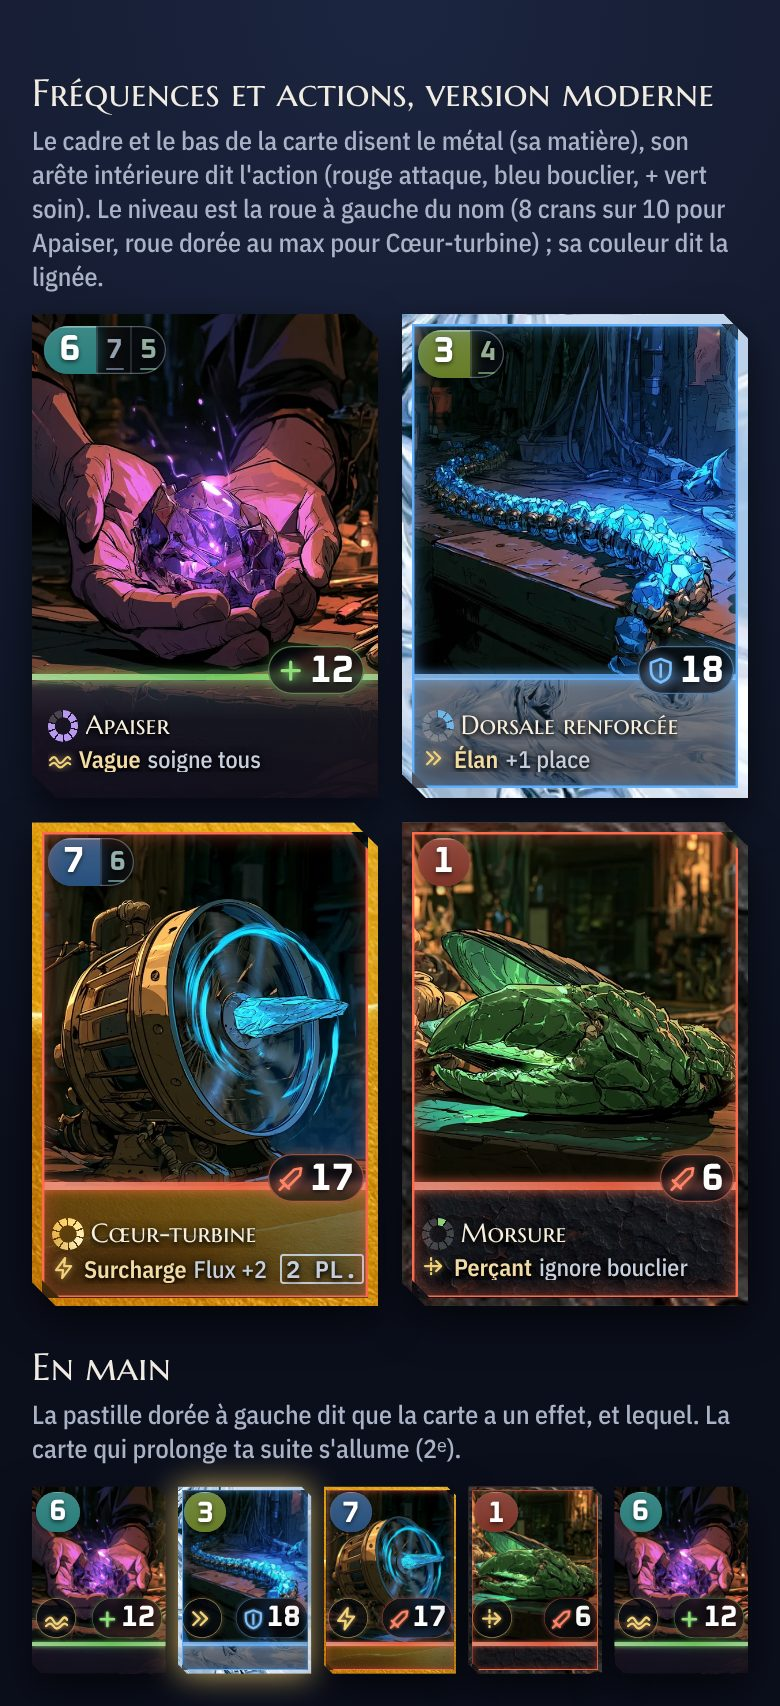
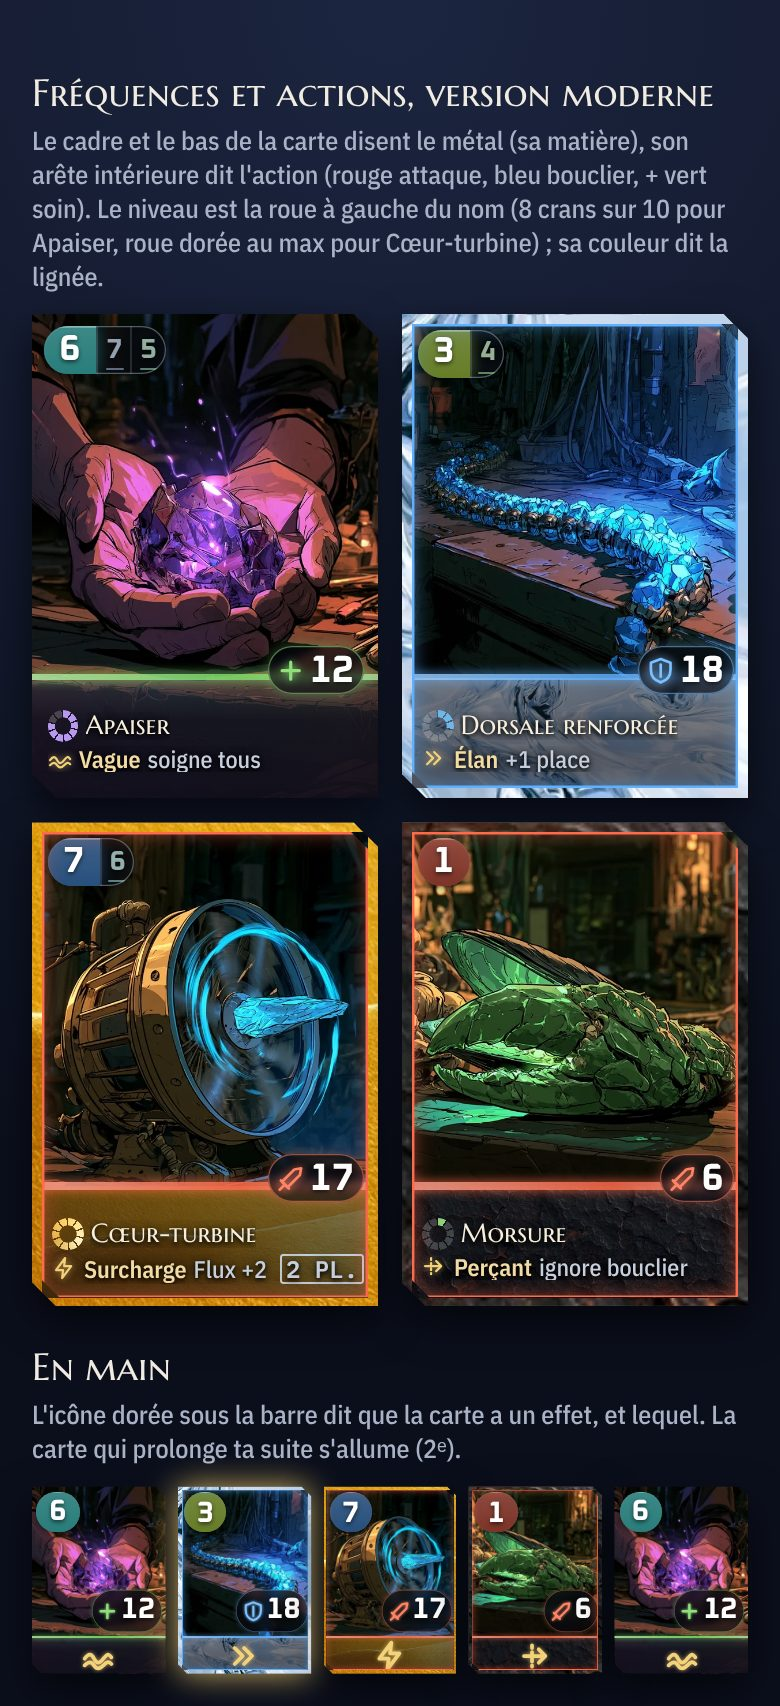
Carte optimale : en main, l'icône de l'effet sous la barre de séparation
Claude-Session: https://claude.ai/code/session_01YVrYiWrba2w3WDzans6RUz

Changed region(s): [[0.0308, 0.932, 0.5846, 0.9941], [0.0615, 0.8077, 0.9538, 0.8388], [0.6154, 0.932, 0.9538, 0.9941]]

diff --git a/docs/carte-optimale.md b/docs/carte-optimale.md
@@ -101,8 +101,8 @@ par le code, net à toutes les tailles :
 - la valeur dans une capsule de verre de la même famille, liseré de la couleur de l'action, icônes au trait
   (épée, écu, +) ; ancienne description : le chiffre seul, avec une petite icône de couleur posée à sa gauche — épée rouge (attaque), écu bleu
   (bouclier), croix « + » verte (soin) — sur une pastille de verre fumé, au-dessus de la couture à droite ;
-- l'effet : une icône dorée au trait par effet, devant son nom en collection, et **en main une pastille dorée à gauche
-  de la valeur** (demande de Bryan : on doit voir en main qu'une carte a un effet, et lequel). Icônes : Vague (deux
+- l'effet : une icône dorée au trait par effet, devant son nom en collection, et **en main sous la barre de séparation**,
+  en grand, dans la bande vide (idée de Bryan) (demande de Bryan : on doit voir en main qu'une carte a un effet, et lequel). Icônes : Vague (deux
   vagues), Élan (double chevron), Surcharge (éclair), Perçant (flèche qui traverse une ligne) ; à dessiner : Siphon
   (flèche qui revient), Désarmer (lame brisée), Fissure (trait en zigzag), Crescendo (trois barres montantes),
   Accord (diapason), Rempart (créneaux) ; Lien (combo) : deux maillons ;
